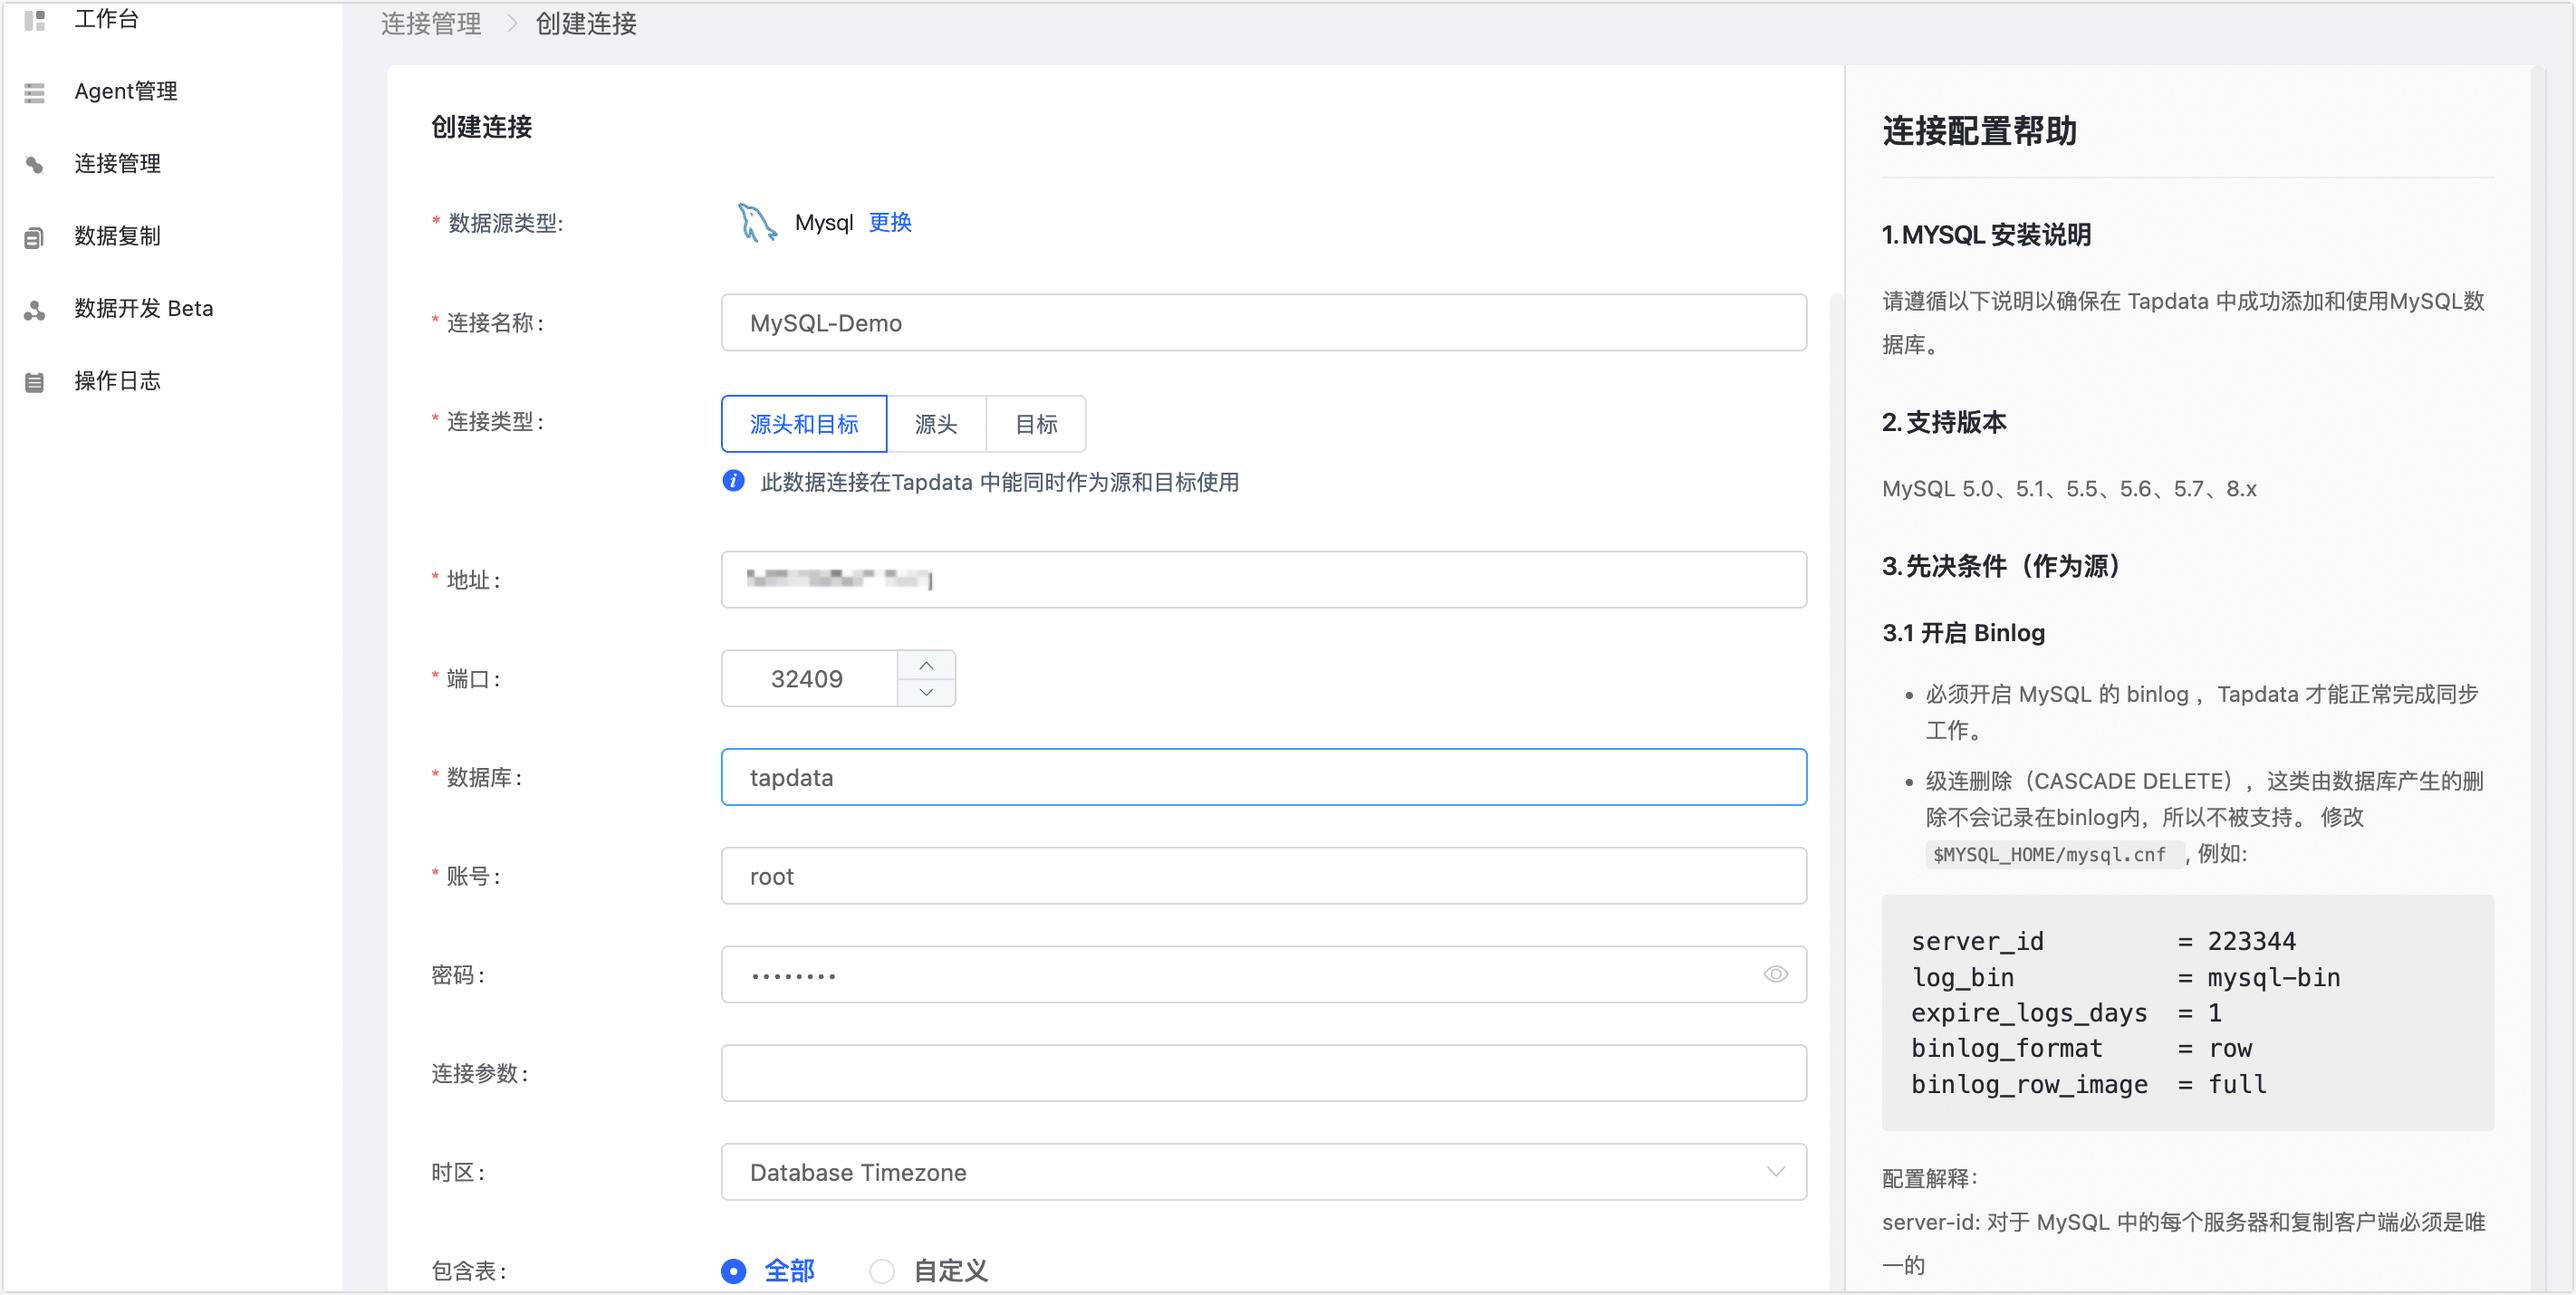
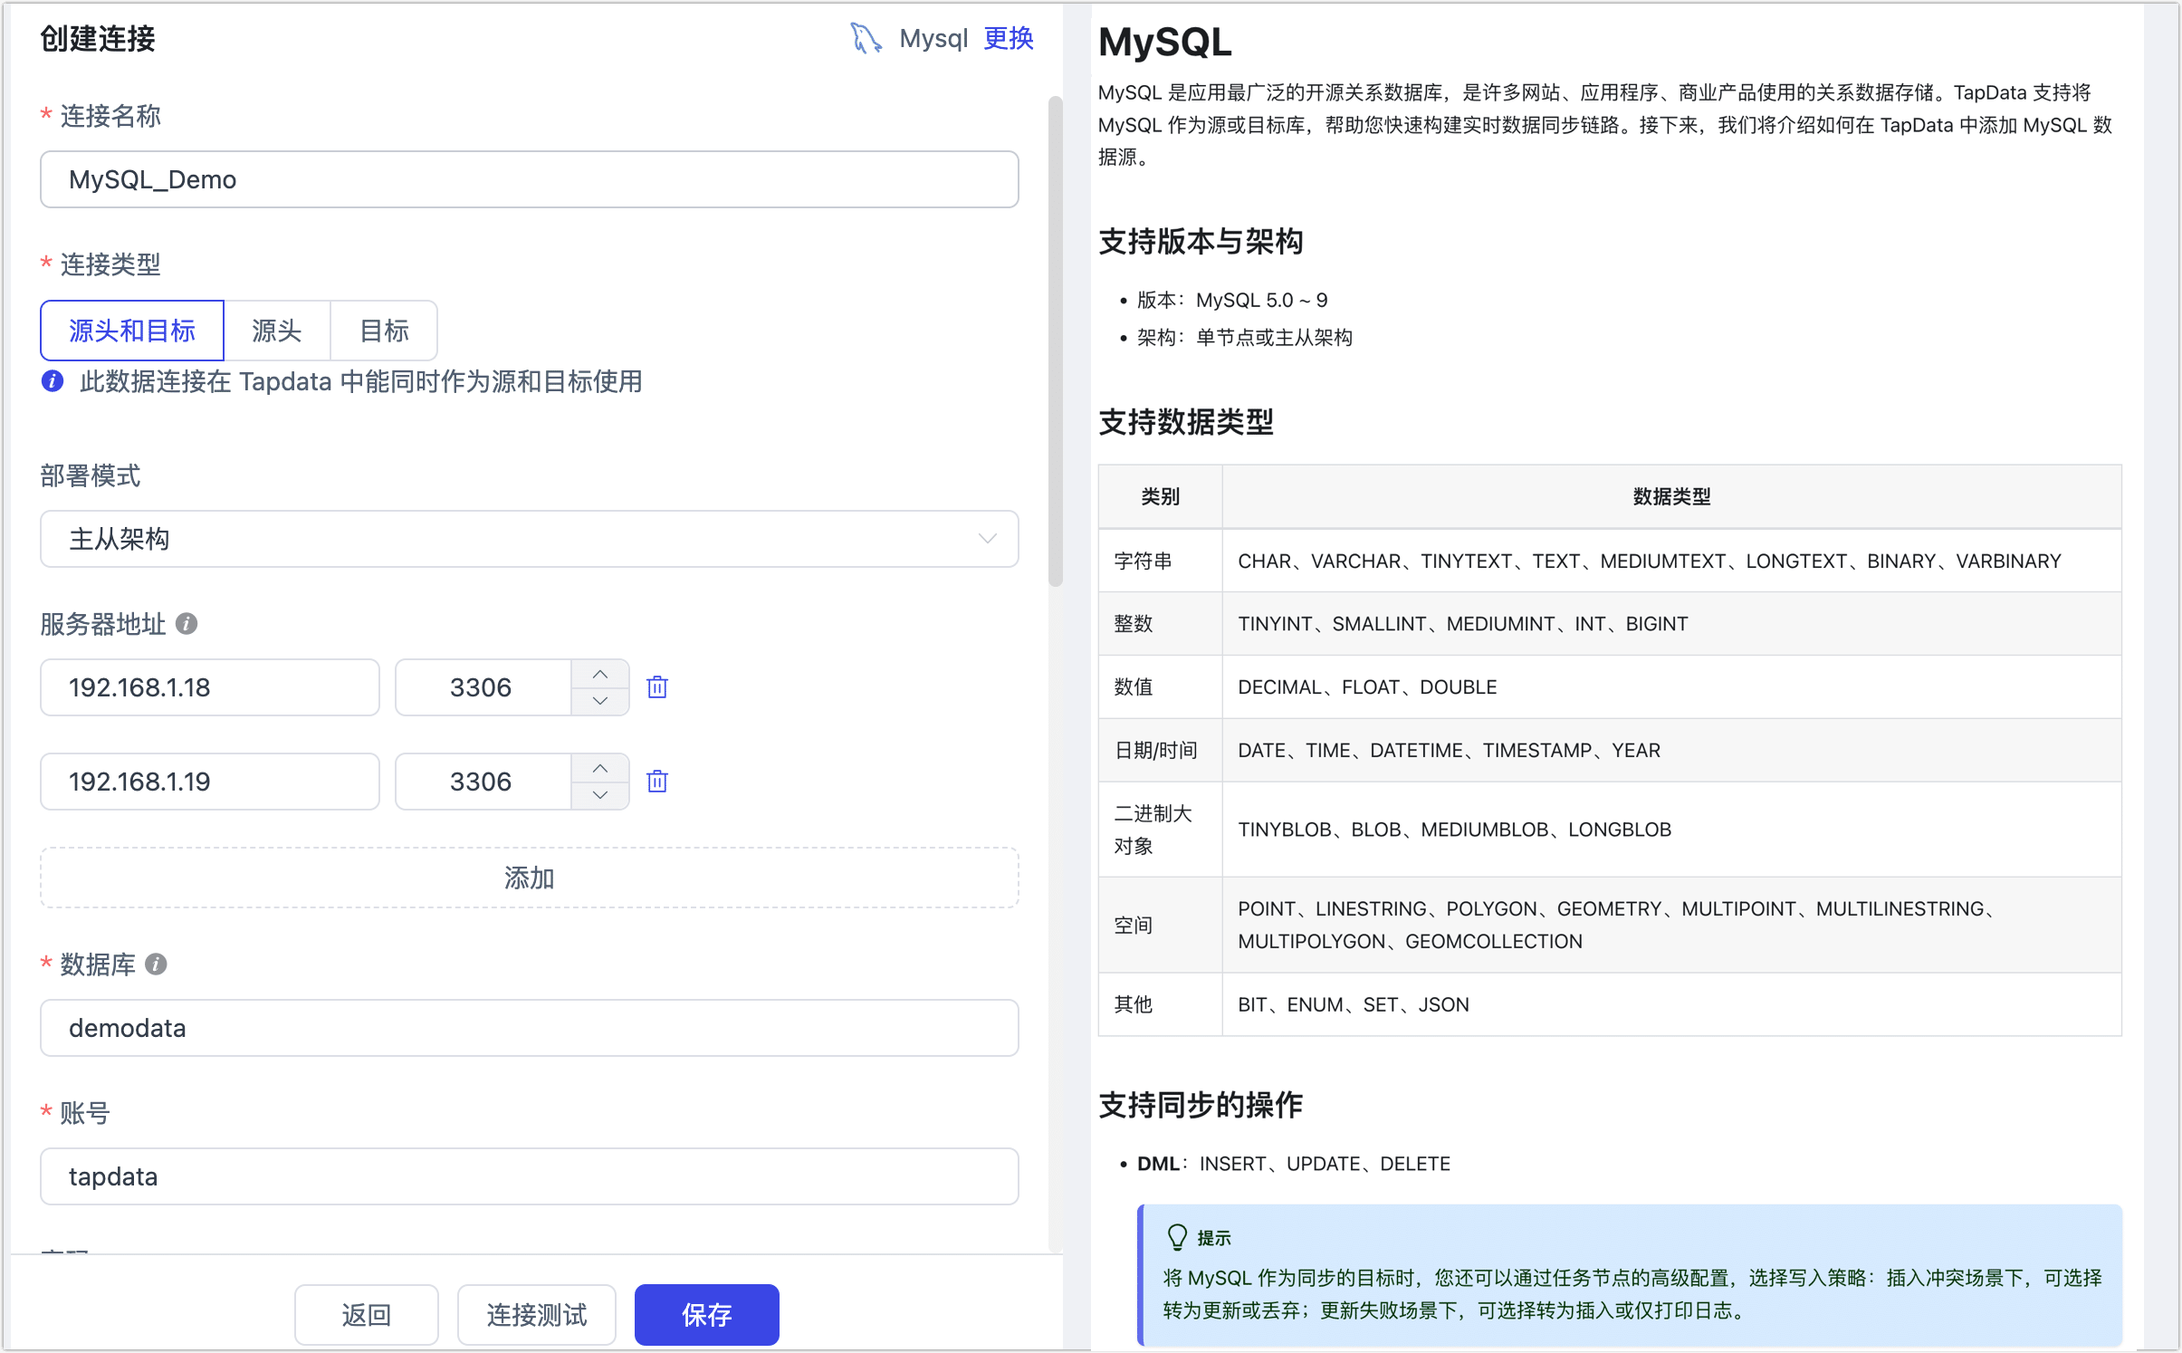
Update MySQL Connection Tutorial

diff --git a/docs/prerequisites/on-prem-databases/mysql.md b/docs/prerequisites/on-prem-databases/mysql.md
@@ -3,27 +3,211 @@ import Content from '../../reuse-content/_all-features.md';
 
 <Content />
 
-MySQL 是应用最广泛的开源关系数据库，是许多网站、应用程序、商业产品使用的关系数据存储。完成 Agent 部署后，您可以跟随本文教程在 TapData 中添加 MySQL 数据源，后续可将其作为源或目标库来构建数据管道。
+MySQL 是应用最广泛的开源关系数据库，是许多网站、应用程序、商业产品使用的关系数据存储。TapData 支持将 MySQL 作为源或目标库，帮助您快速构建实时数据同步链路。接下来，我们将介绍如何在 TapData 中添加 MySQL 数据源。
 
-## 支持版本 
+```mdx-code-block
+import Tabs from '@theme/Tabs';
+import TabItem from '@theme/TabItem';
+```
 
-MySQL 5.0、5.1、5.5、5.6、5.7、8.x
+## 支持版本与架构
+
+* 版本：MySQL 5.0 ~ 9
+* 架构：单节点或主从架构
+
+## 支持数据类型
+
+| 类别         | 数据类型                                                     |
+| ------------ | ------------------------------------------------------------ |
+| 字符串       | CHAR、VARCHAR、TINYTEXT、TEXT、MEDIUMTEXT、LONGTEXT、BINARY、VARBINARY |
+| 整数         | TINYINT、SMALLINT、MEDIUMINT、INT、BIGINT                    |
+| 数值         | DECIMAL、FLOAT、DOUBLE                                       |
+| 日期/时间    | DATE、TIME、DATETIME、TIMESTAMP、YEAR                        |
+| 二进制大对象 | TINYBLOB、BLOB、MEDIUMBLOB、LONGBLOB                         |
+| 空间         | POINT、LINESTRING、POLYGON、GEOMETRY、MULTIPOINT、MULTILINESTRING、MULTIPOLYGON、GEOMCOLLECTION |
+| 其他         | BIT、ENUM、SET、JSON                                         |
+
+## 支持同步的操作
+
+- **DML**：INSERT、UPDATE、DELETE
+
+  :::tip
+
+  将 MySQL 作为同步的目标时，您还可以通过任务节点的高级配置，选择写入策略：插入冲突场景下，可选择转为更新或丢弃；更新失败场景下，可选择转为插入或仅打印日志。
+
+  :::
+
+- **DDL**：ADD COLUMN、CHANGE COLUMN、DROP COLUMN、RENAME COLUMN
+
+## 注意事项
+
+* 增量数据采集主要通过解析 binlog 实现，数据变更频繁时，可能会对占用数据库一定的 CPU 和磁盘 I/O 资源。
+* 在 MySQL 5.6 及更早版本中，应预处理`time` 类型的时分秒为负数的数据（例如转换为合法的正值），以免增量采集发生异常。
+* 在某些基于 MySQL 内核的数据源，若使用了原生 MySQL 不支持的 Schema 或函数，可能导致增量采集出错，此类情况可联系 [TapData 技术支持](../../support.md)进行适配。
 
 ## 准备工作
 
 ### 作为源库
 
-import Content1 from '../../reuse-content/certificate/_mysql-as-source.md';
+1. 登录 MySQL 数据库，执行下述格式的命令，创建用于数据同步/开发任务的账号。
 
-<Content1 />
+```mdx-code-block
+<Tabs className="unique-tabs">
+<TabItem value="MySQL 5.x" default>
+```
+
+```sql
+CREATE USER 'username'@'host' IDENTIFIED BY 'password';
+```
+
+   </TabItem>
+   <TabItem value="MySQL 8.x 及以上">
+
+```sql
+CREATE USER 'username'@'host' IDENTIFIED WITH mysql_native_password BY 'password';
+```
+
+   </TabItem>
+  </Tabs>
+
+  * **username**：用户名。
+  * **password**：密码。
+  * **host**：允许该账号登录的主机，百分号（%）表示允许任意主机。
+
+示例：创建一个名为 tapdata 的账号。
+
+```sql
+CREATE USER 'tapdata'@'%' IDENTIFIED BY 'yourpasswd';
+```
+
+2. 为刚创建的账号授予权限，示例如下，您也可以基于业务需求设置更精细化的权限控制。
+
+```mdx-code-block
+<Tabs className="unique-tabs">
+<TabItem value="仅读取全量数据" default>
+```
+
+```sql
+-- 授予指定库的读权限
+GRANT SELECT ON database_name.* TO 'username' IDENTIFIED BY 'password';
+```
+
+   </TabItem>
+   <TabItem value="读取全量+增量数据">
+
+```sql
+-- 授予指定库的读权限
+GRANT SELECT ON database_name.* TO 'username' IDENTIFIED BY 'password';
+-- 授予复制权限
+GRANT REPLICATION SLAVE, REPLICATION CLIENT ON *.* TO 'username' IDENTIFIED BY 'password';
+```
+
+   </TabItem>
+  </Tabs>
+
+* **database_name**：要授予权限的数据库名称。
+* **username**：用户名。
+* **password**：密码。
+
+3. 为保障读取 MySQL 数据库的增量数据，您还需要跟随下述步骤开启 Binlog。
+
+   1. 使用 `vim` 命令，修改 `$MYSQL_HOME/mysql.cnf` 中的配置，例如：
+
+      ```bash
+      server_id         = 223344
+      log_bin           = mysql-bin
+      expire_logs_days  = 1
+      binlog_format     = row
+      binlog_row_image  = full
+      ```
+
+      - **server_id**：对于 MySQL 中的每个服务器和复制客户端必须是唯一的，设置为大于 0 的整数
+      - **log_bin**：Binlog 序列文件的基本名称
+      - **expire_logs_days**：二进制日志文件保留的天数，到期自动删除
+      - **binlog_format**：设置为 row
+      - **binlog_row_image**：设置为 full
+
+   2. 修改完成后，执行下述命令重启 MySQL 进程。
+
+      ```bash
+      /etc/inint.d/mysqld restart
+      ```
+
+   3. （可选）登录 MySQL 数据库，执行下述命令确认配置已生效，即输出的结果中，**format** 的值为 **ROW**。
+
+      ```sql
+      SHOW VARIABLES LIKE 'binlog_format';
+      ```
+
+      输出示例如下：
+
+      ```sql
+      +---------------+-------+
+      | Variable_name | Value |
+      +---------------+-------+
+      | binlog_format | ROW   |
+      +---------------+-------+
+      1 row in set (0.00 sec)
+      ```
 
       
 
 ### 作为目标库
 
-import Content2 from '../../reuse-content/certificate/_mysql-as-target.md';
+1. 登录 MySQL 数据库，执行下述格式的命令，创建用于数据同步/开发任务的账号。
 
-<Content2 />
+```mdx-code-block
+<Tabs className="unique-tabs">
+<TabItem value="MySQL 5.x" default>
+```
+
+```sql
+CREATE USER 'username'@'host' IDENTIFIED BY 'password';
+```
+
+</TabItem>
+
+<TabItem value="MySQL 8.x 及以上">
+
+```sql
+CREATE USER 'username'@'host' IDENTIFIED WITH mysql_native_password BY 'password';
+```
+
+   </TabItem>
+  </Tabs>
+
+  * **username**：用户名。
+  * **password**：密码。
+  * **host**：允许该账号登录的主机，百分号（%）表示允许任意主机。
+
+示例：创建一个名为 tapdata 的账号。
+
+```sql
+CREATE USER 'tapdata'@'%' IDENTIFIED BY 'yourpasswd';
+```
+
+2. 为刚创建的账号授予权限，示例如下，您也可以基于业务需求设置更精细化的权限控制。
+
+<Tabs className="unique-tabs">
+<TabItem value="授予指定库权限" default>
+
+```sql
+GRANT SELECT, INSERT, UPDATE, DELETE, ALTER, CREATE, CREATE ROUTINE, CREATE TEMPORARY TABLES, DROP ON database_name.* TO 'username';
+```
+
+</TabItem>
+
+<TabItem value="授予所有库权限">
+
+```sql
+GRANT SELECT, INSERT, UPDATE, DELETE, ALTER, CREATE, CREATE ROUTINE, CREATE TEMPORARY TABLES, DROP ON *.* TO 'username';
+```
+
+   </TabItem>
+  </Tabs>
+
+* **database_name**：要授予权限的数据库名称。
+* **username**：用户名。
 
 
 
@@ -58,6 +242,7 @@ import Content2 from '../../reuse-content/certificate/_mysql-as-target.md';
    # 服务端私钥文件
    ssl-key=/var/lib/mysql/server-key.pem
    [client]
+   # 开启 SSL 强制认证
    ssl-mode=REQUIRED
    # 客户端连接服务端所需提供的证书文件
    ssl-cert=/var/lib/mysql/client-cert.pem
@@ -98,20 +283,21 @@ import Content2 from '../../reuse-content/certificate/_mysql-as-target.md';
     * **连接信息设置**
         * **连接名称**：填写具有业务意义的独有名称。
         * **连接类型**：支持将 MySQL 作为源或目标库。
+        * **部署模式**：支持单机和主从架构。当选择主从架构时，需提供主从服务器地址和服务端口，其中主库信息应填写在第一行。
         * **地址**：数据库连接地址。
         * **端口**：数据库的服务端口。
         * **数据库**：数据库名称，即一个连接对应一个数据库，如有多个数据库则需创建多个数据连接。
         * **账号**：数据库的账号。
         * **密码**：数据库账号对应的密码。
     * **高级设置**
-        * **连接参数**：额外的连接参数，默认为空。
-        * **时区**：默认为数据库所用的时区，您也可以根据业务需求手动指定。
-          如果源库为默认数据库时区（+8:00），目标端数据库为指定时区+0:00，那么假设源端数据库存储的时间为 2020-01-01 16:00:00，目标端数据库存储的时间则为 2020-01-01 08:00:00
+        * **连接参数**：默认为 `useUnicode=yes&characterEncoding=UTF-8`，表示数据传输将使用 UTF-8 编码的 Unicode 字符集，有助于避免字符编码问题。
+        * **时区**：时区配置默认为 0 时区。若设置为其他时区，会影响不带时区信息的字段（如 `datetime`）的数据同步。带时区的字段（如 `timestamp`、`date` 和 `time` ）不受影响。
         * **共享挖掘**：[挖掘源库](../../user-guide/advanced-settings/share-mining.md)的增量日志，可为多个任务共享源库的增量日志，避免重复读取，从而最大程度上减轻增量同步对源库的压力，开启该功能后还需要选择一个外存用来存储增量日志信息。
         * **包含表**：默认为**全部**，您也可以选择自定义并填写包含的表，多个表之间用英文逗号（,）分隔。
         * **排除表**：打开该开关后，可以设定要排除的表，多个表之间用英文逗号（,）分隔。
         * **Agent 设置**：默认为**平台自动分配**，您也可以手动指定 Agent。
-        * **模型加载频率**：数据源中模型数量大于 1 万时，TapData 将按照设置的时间定期刷新模型。
+        * **模型加载时间**：如果数据源中的模型数量少于10000个，则每小时更新一次模型信息。但如果模型数量超过10000个，则刷新将在您指定的时间每天进行。
+        * **开启心跳表**：当连接类型为源头或目标时，可启用该开关。TapData 会在源库创建 `_tapdata_heartbeat_table` 心跳表，并每 10 秒更新一次（需具备相应权限），用于监测数据源连接与任务的健康状况。心跳任务在数据复制/开发任务启动后自动启动，您可在数据源编辑页面查看心跳任务。
     * **SSL 设置**：选择是否开启 SSL 连接数据源，可进一步提升数据安全性，开启该功能后还需要上传 CA 文件、客户端证书、客户端密钥文件等，相关文件已在[开启 SSL 连接](#ssl)中获取。
 
 6. 单击**连接测试**，测试通过后单击**保存**。
@@ -121,6 +307,17 @@ import Content2 from '../../reuse-content/certificate/_mysql-as-target.md';
    如提示连接测试失败，请根据页面提示进行修复。
 
    :::
+
+## 节点高级特性
+
+在配置数据同步/转换任务时，将 MySQL 作为源节点时，为更好满足业务复杂需求，最大化发挥性能，TapData 为其内置更多高级特性能力，您可以基于业务需求配置：
+
+![节点高级特性](../../images/mysql_node_advanced_settings.png)
+
+* **哈希分片**：开启后，全表数据将在全量同步阶段按哈希值拆分为多个分片，并发读取数据，显著提升读取性能，加速全量数据同步，但也会增加数据库负载，最大分片数可在启用开关后手动设置。
+* **最大队列大小**：控制增量数据读取队列的容量，默认为 **800**（DML 事件数）。若目标库同步速度较慢或表中单条数据较大，可适当降低该值。
+
+
 
 ## 常见问题
 
